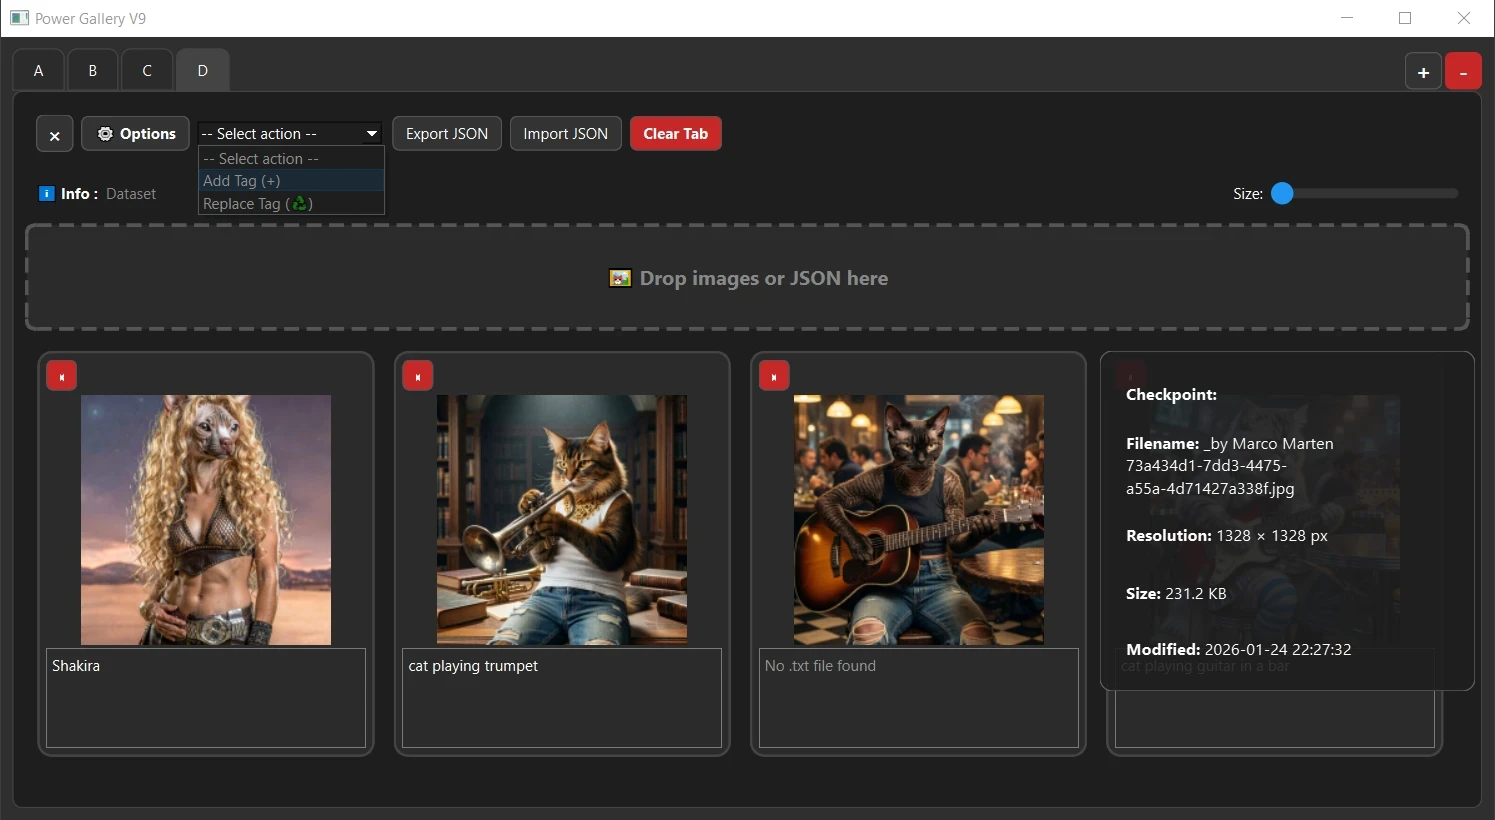
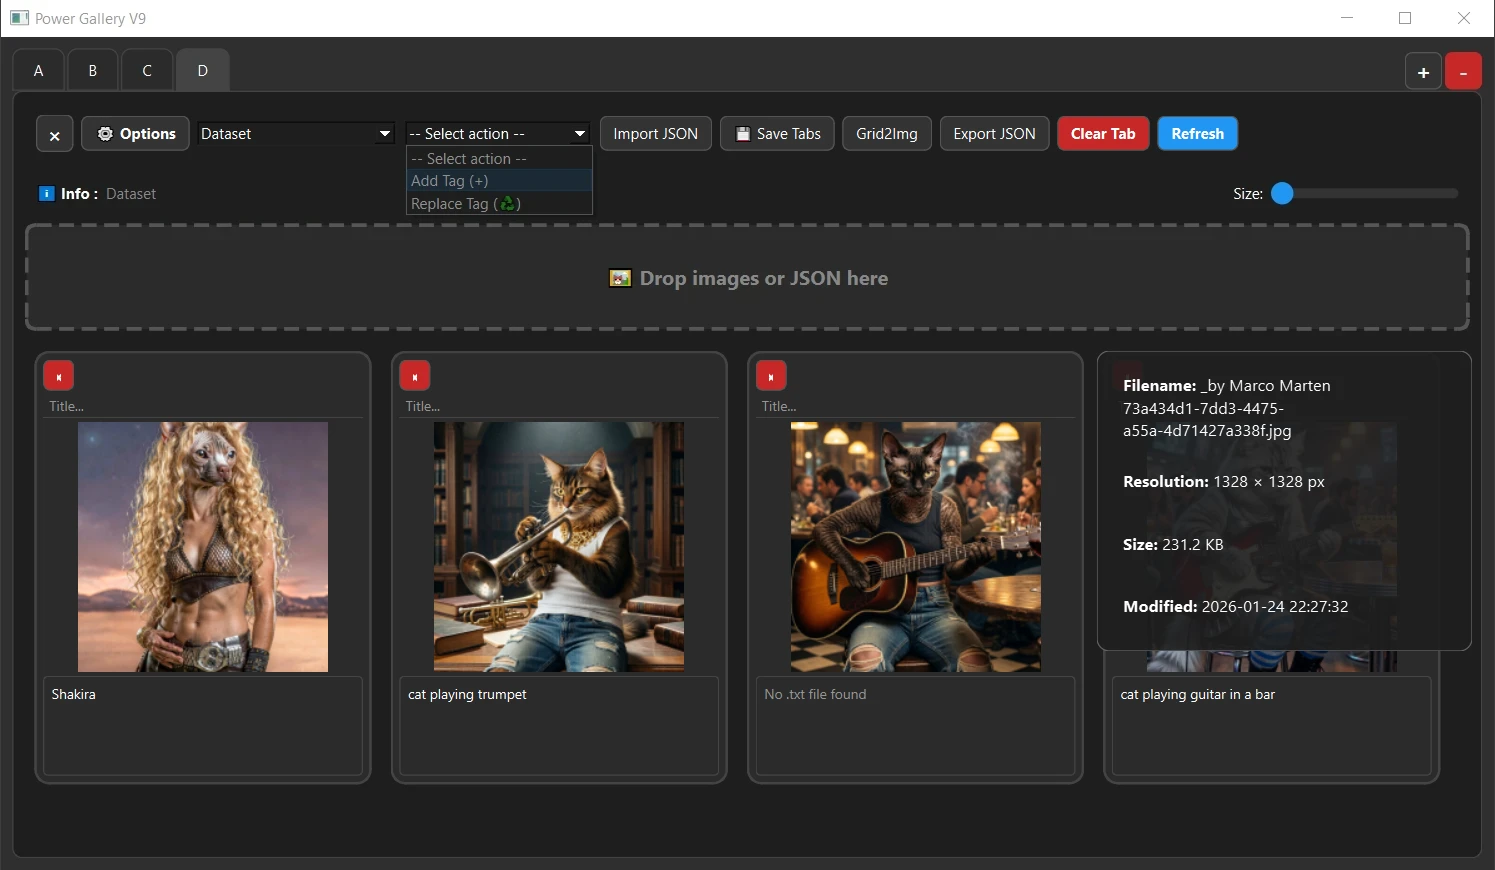
update

diff --git a/power_gallery.py b/power_gallery.py
@@ -306,6 +306,26 @@ def format_metadata_for_display(card):
 
 
 
+# ── Grid2Img settings ─────────────────────────────────────────────────────────
+
+_GRID2IMG_SETTINGS_FILE = Path(__file__).parent / 'config' / 'grid2img_settings.json'
+
+def _load_grid2img_settings():
+    try:
+        if _GRID2IMG_SETTINGS_FILE.exists():
+            return json.loads(_GRID2IMG_SETTINGS_FILE.read_text(encoding='utf-8'))
+    except Exception:
+        pass
+    return {}
+
+def _save_grid2img_settings(data):
+    try:
+        _GRID2IMG_SETTINGS_FILE.write_text(
+            json.dumps(data, indent=2, ensure_ascii=False), encoding='utf-8')
+    except Exception as e:
+        print(f"[grid2img] Save error: {e}")
+
+
 class Grid2ImgDialog(QDialog):
     from config.options_style import apply_options_style
 
@@ -446,7 +466,35 @@ class Grid2ImgDialog(QDialog):
         btns.rejected.connect(self.reject)
         layout.addWidget(btns)
 
-    def get_options(self):
+        self._load_settings()
+
+    def _load_settings(self):
+        s = _load_grid2img_settings()
+        if not s:
+            return
+        self.bg_combo.setCurrentText(s.get('background', 'White'))
+        self.spacing_spin.setValue(s.get('spacing', 10))
+        self.padding_spin.setValue(s.get('padding', 20))
+        self.title_size_spin.setValue(s.get('title_size', 24))
+        self.text_size_spin.setValue(s.get('text_size', 14))
+        self.res_spin.setValue(s.get('res_max', 1024))
+        self.grid_count_spin.setValue(s.get('grid_count', 4))
+        self.grid_by_row.setChecked(s.get('grid_mode', 'column') == 'row')
+        self.grid_by_col.setChecked(s.get('grid_mode', 'column') == 'column')
+        self.fmt_png.setChecked(s.get('format', 'png') == 'png')
+        self.fmt_webp.setChecked(s.get('format', 'png') == 'webp')
+        for key in ['filename', 'title', 'description', 'prompt', 'negative_prompt',
+                    'model', 'cfg', 'sampler', 'steps', 'seed', 'lora', 'lora_strength']:
+            cb = getattr(self, f'field_{key}', None)
+            if cb:
+                cb.setChecked(key in s.get('fields', []))
+
+    def _save_settings(self):
+        opts = self.get_options(save=False)
+        opts['background'] = self.bg_combo.currentText()
+        _save_grid2img_settings(opts)
+
+    def get_options(self, save=True):
         bg_map = {
             "White": QColor("white"),
             "Black": QColor("black"),
@@ -470,7 +518,7 @@ class Grid2ImgDialog(QDialog):
         fmt = "webp" if self.fmt_webp.isChecked() else "png"
         grid_mode = "row" if self.grid_by_row.isChecked() else "column"
 
-        return {
+        result = {
             "title": self.title_edit.text().strip(),
             "background": bg_map[self.bg_combo.currentText()],
             "spacing": self.spacing_spin.value(),
@@ -483,6 +531,9 @@ class Grid2ImgDialog(QDialog):
             "grid_mode": grid_mode,
             "format": fmt,
         }
+        if save:
+            self._save_settings()
+        return result
 
 # ── Tab widget ────────────────────────────────────────────────────────────────
 
@@ -1956,7 +2007,7 @@ class GridTab(QWidget):
         } for card in self.cards]
 
         for card in self.cards[:]:
-            card.deleteLater()
+            card.setParent(None)
         self.cards.clear()
 
         module = self.get_active_module()
@@ -2096,7 +2147,15 @@ class MetadataOverlay(QWidget):
 
     def set_text(self, text):
         self._text = text
-        self.text_label.setText(text)
+        hint = f"\n\n{config.get_text('meta_display_hint')}"
+        if text:
+            hint_color = config.get_styles().COLORS.get('text2', '#888')
+            self.text_label.setText(
+                f'<span style="color:white;">{text.replace(chr(10), "<br>")}</span>'
+                f'<span style="color:{hint_color};">{hint.replace(chr(10), "<br>")}</span>'
+            )
+        else:
+            self.text_label.setText("no metadata")
 
     def toggle(self):
         self._visible = not self._visible
@@ -2374,12 +2433,12 @@ class FullscreenViewer(QWidget):
 
     def update_info_label(self):
         module = self.grid_tab.get_active_module()
-        ckpt = self.card.module_data.get('checkpoint_name', '') if module else ''
+        ckpt = self.card.module_data.get('display_title', '') if module else ''
         self.info_label.setText(
             f"{ckpt} - {os.path.basename(self.card.image_path)}"
             if ckpt else os.path.basename(self.card.image_path))
         if self.comparison_card:
-            ckpt2 = self.comparison_card.module_data.get('checkpoint_name', '') if module else ''
+            ckpt2 = self.comparison_card.module_data.get('display_title', '') if module else ''
             self.info_label2.setText(
                 f"{ckpt2} - {os.path.basename(self.comparison_card.image_path)}"
                 if ckpt2 else os.path.basename(self.comparison_card.image_path))
@@ -2494,7 +2553,6 @@ class SplashScreen(QWidget):
         font.setWeight(QFont.Weight.Normal)
         painter.setFont(font)
         painter.setPen(QColor('#555555'))
-        # painter.drawText(self.rect().adjusted(0, 20, 0, 0), Qt.AlignmentFlag.AlignCenter, 'V 9')
         painter.drawText(self.rect().adjusted(0, 20, 0, 0), Qt.AlignmentFlag.AlignCenter, f'V {config.get_version()}')
 
         n_dots = 5
@@ -2666,7 +2724,7 @@ class MainWindow(QMainWindow):
     # ── UI ────────────────────────────────────────────────────────────────────
 
     def refresh_ui_texts(self, lang_changed=False):
-        self.setWindowTitle(config.get_text('window_title'))
+        self.setWindowTitle(f"Power Gallery {config.get_version()}")
         for i in range(self.tabs.count()):
             tab = self.tabs.widget(i)
             if hasattr(tab, 'refresh_ui_texts'):

diff --git a/config/lang/esp.py b/config/lang/esp.py
@@ -32,8 +32,9 @@ LANG = {
     # Modules tab
     'options_module_none': 'Sin módulo',
     # Module dropdown
-    'dropdown_select_action': '-- Seleccionar acción --',
+    'dropdown_select_action': '-- Select action --',
     'dropdown_no_module': '< Sin módulo >',
+    'dropdown_no_action': '< Sin acción >',
     # Messages / log
     'msg_loaded': 'Cargado',
     'msg_no_images': 'No hay imágenes para exportar',
@@ -59,8 +60,9 @@ LANG = {
     'file_filter_images': 'Imágenes (*.png *.jpg *.jpeg *.webp)',
     'file_filter_images_json': 'Imágenes y JSON (*.png *.jpg *.jpeg *.webp *.json);;Imágenes (*.png *.jpg *.jpeg *.webp);;JSON (*.json);;Todos los archivos (*.*)',
     # Fullscreen viewer
-    'fullscreen_compare': 'Comparar con:',
-    'fullscreen_tab_current': '{name} (actual)',
+    'fullscreen_compare': 'Compare with:',
+    'fullscreen_tab_current': '{name} (current)',
+    'meta_display_hint': '— Ctrl+desplazamiento para cambiar el tamaño del texto —',
     # Style editor
     'style_available_styles': 'Estilos disponibles',
     'style_actions': 'Acciones',
@@ -123,6 +125,8 @@ LANG = {
     'style_tab_module': 'Módulo',
     'style_module_no_style': 'Este módulo no tiene estilos personalizados',
     # Metadata
-    'options_read_metadata': 'Leer metadatos de imagen (PNG/WebP/JPG)',
-    'hint_read_metadata': 'Lee parámetros de generación de archivos PNG, WebP y JPG (prompt, modelo, CFG, seed…). Haz clic en la imagen en pantalla completa para mostrar/ocultar.',
+    'options_read_metadata': 'Read image metadata (PNG/WebP/JPG)',
+    'hint_read_metadata': 'Reads generation parameters from PNG, WebP and JPG files (prompt, model, CFG, seed…). Click on image in fullscreen mode to toggle overlay.',
+    'options_metadata_extra': 'Extra fields',
+    'hint_metadata_extra': 'Show additional metadata fields (ExifTool pass-through data).',
 }

diff --git a/config/lang/arab.py b/config/lang/arab.py
@@ -32,8 +32,9 @@ LANG = {
     # Modules tab
     'options_module_none': 'لا توجد وحدة',
     # Module dropdown
-    'dropdown_select_action': '-- اختر إجراءً --',
-    'dropdown_no_module': '< لا توجد وحدة >',
+    'dropdown_select_action': '-- Select action --',
+    'dropdown_no_module': '< ا توجد وحدة >',
+    'dropdown_no_action': '< لا إجراء >',
     # Messages / log
     'msg_loaded': 'تم التحميل',
     'msg_no_images': 'لا توجد صور للتصدير',
@@ -59,8 +60,9 @@ LANG = {
     'file_filter_images': 'صور (*.png *.jpg *.jpeg *.webp)',
     'file_filter_images_json': 'صور و JSON (*.png *.jpg *.jpeg *.webp *.json);;صور (*.png *.jpg *.jpeg *.webp);;JSON (*.json);;كل الملفات (*.*)',
     # Fullscreen viewer
-    'fullscreen_compare': 'مقارنة مع:',
-    'fullscreen_tab_current': '{name} (الحالي)',
+    'fullscreen_compare': 'Compare with:',
+    'fullscreen_tab_current': '{name} (current)',
+    'meta_display_hint': '— Ctrl+تمرير لتغيير حجم النص —',
     # Style editor
     'style_available_styles': 'الأنماط المتاحة',
     'style_actions': 'إجراءات',
@@ -125,4 +127,6 @@ LANG = {
     # Metadata
     'options_read_metadata': 'قراءة بيانات الصورة الوصفية (PNG/WebP/JPG)',
     'hint_read_metadata': 'يقرأ معاملات التوليد من ملفات PNG وWebP وJPG (المطالبة، النموذج، CFG، البذرة…). انقر على الصورة في وضع ملء الشاشة لتبديل طبقة العرض.',
+    'options_metadata_extra': 'Extra fields',
+    'hint_metadata_extra': 'Show additional metadata fields (ExifTool pass-through data).',
 }

diff --git a/config/lang/cn.py b/config/lang/cn.py
@@ -32,8 +32,9 @@ LANG = {
     # Modules tab
     'options_module_none': '无模块',
     # Module dropdown
-    'dropdown_select_action': '-- 选择操作 --',
-    'dropdown_no_module': '< 无模块 >',
+    'dropdown_select_action': '-- Select action --',
+    'dropdown_no_module': '< No module >',
+    'dropdown_no_action': '< No action >',
     # Messages / log
     'msg_loaded': '已加载',
     'msg_no_images': '没有可导出的图片',
@@ -59,8 +60,9 @@ LANG = {
     'file_filter_images': '图片 (*.png *.jpg *.jpeg *.webp)',
     'file_filter_images_json': '图片和 JSON (*.png *.jpg *.jpeg *.webp *.json);;图片 (*.png *.jpg *.jpeg *.webp);;JSON (*.json);;所有文件 (*.*)',
     # Fullscreen viewer
-    'fullscreen_compare': '与以下对比:',
-    'fullscreen_tab_current': '{name} (当前)',
+    'fullscreen_compare': 'Compare with:',
+    'fullscreen_tab_current': '{name} (current)',
+    'meta_display_hint': '— Ctrl+滚轮 调整文字大小 —',
     # Style editor
     'style_available_styles': '可用样式',
     'style_actions': '操作',
@@ -125,4 +127,6 @@ LANG = {
     # Metadata
     'options_read_metadata': '读取图片元数据（PNG/WebP/JPG）',
     'hint_read_metadata': '从 PNG、WebP 和 JPG 文件中读取生成参数（提示词、模型、CFG、种子等）。在全屏模式下点击图片可切换叠加层。',
+    'options_metadata_extra': 'Extra fields',
+    'hint_metadata_extra': 'Show additional metadata fields (ExifTool pass-through data).',
 }

diff --git a/config/lang/de.py b/config/lang/de.py
@@ -32,8 +32,9 @@ LANG = {
     # Modules tab
     'options_module_none': 'Kein Modul',
     # Module dropdown
-    'dropdown_select_action': '-- Aktion auswählen --',
+    'dropdown_select_action': '-- Select action --',
     'dropdown_no_module': '< Kein Modul >',
+    'dropdown_no_action': '< Keine Aktion >',
     # Messages / log
     'msg_loaded': 'Geladen',
     'msg_no_images': 'Keine Bilder zum Exportieren',
@@ -59,8 +60,9 @@ LANG = {
     'file_filter_images': 'Bilder (*.png *.jpg *.jpeg *.webp)',
     'file_filter_images_json': 'Bilder und JSON (*.png *.jpg *.jpeg *.webp *.json);;Bilder (*.png *.jpg *.jpeg *.webp);;JSON (*.json);;Alle Dateien (*.*)',
     # Fullscreen viewer
-    'fullscreen_compare': 'Vergleichen mit:',
-    'fullscreen_tab_current': '{name} (aktuell)',
+    'fullscreen_compare': 'Compare with:',
+    'fullscreen_tab_current': '{name} (current)',
+    'meta_display_hint': '— Ctrl+Scrollen zum Ändern der Textgröße —',
     # Style editor
     'style_available_styles': 'Verfügbare Stile',
     'style_actions': 'Aktionen',
@@ -125,4 +127,6 @@ LANG = {
     # Metadata
     'options_read_metadata': 'Bild-Metadaten lesen (PNG/WebP/JPG)',
     'hint_read_metadata': 'Liest Generierungsparameter aus PNG-, WebP- und JPG-Dateien (Prompt, Modell, CFG, Seed…). Im Vollbild auf das Bild klicken zum Ein-/Ausblenden.',
+    'options_metadata_extra': 'Extra fields',
+    'hint_metadata_extra': 'Show additional metadata fields (ExifTool pass-through data).',
 }

diff --git a/config/lang/pt_BR.py b/config/lang/pt_BR.py
@@ -34,6 +34,7 @@ LANG = {
     # Module dropdown
     'dropdown_select_action': '-- Selecionar ação --',
     'dropdown_no_module': '< Nenhum módulo >',
+    'dropdown_no_action': '< Sem ação >',
     # Messages / log
     'msg_loaded': 'Carregado',
     'msg_no_images': 'Nenhuma imagem para exportar',
@@ -61,6 +62,7 @@ LANG = {
     # Fullscreen viewer
     'fullscreen_compare': 'Comparar com:',
     'fullscreen_tab_current': '{name} (atual)',
+    'meta_display_hint': '— Ctrl+scroll para redimensionar o texto —',
     # Style editor
     'style_available_styles': 'Estilos Disponíveis',
     'style_actions': 'Ações',
@@ -124,5 +126,7 @@ LANG = {
     'style_module_no_style': 'Este módulo não possui estilos personalizados',
     # Metadata
     'options_read_metadata': 'Ler metadados de imagem (PNG/WebP/JPG)',
-    'hint_read_metadata': 'Lê parâmetros de geração de arquivos PNG, WebP e JPG (prompt, modelo, CFG, seed…). Clique na imagem em tela cheia para alternar a sobreposição.',
+    'hint_read_metadata': 'Lê parâmetros de geração de arquivos PNG, WebP e JPG (prompt, modelo, CFG, seed…). Clique na imagem em tela cheia para alternar overlay.',
+    'options_metadata_extra': 'Extra fields',
+    'hint_metadata_extra': 'Show additional metadata fields (ExifTool pass-through data).',
 }

diff --git a/config/lang/jp.py b/config/lang/jp.py
@@ -34,6 +34,7 @@ LANG = {
     # Module dropdown
     'dropdown_select_action': '-- アクションを選択 --',
     'dropdown_no_module': '< モジュールなし >',
+    'dropdown_no_action': '< アクションなし >',
     # Messages / log
     'msg_loaded': '読み込み完了',
     'msg_no_images': 'エクスポートする画像がありません',
@@ -61,6 +62,7 @@ LANG = {
     # Fullscreen viewer
     'fullscreen_compare': '比較対象:',
     'fullscreen_tab_current': '{name} (現在)',
+    'meta_display_hint': '— Ctrl+スクロールでテキストサイズを変更 —',
     # Style editor
     'style_available_styles': '利用可能なスタイル',
     'style_actions': 'アクション',
@@ -125,4 +127,6 @@ LANG = {
     # Metadata
     'options_read_metadata': '画像メタデータを読む (PNG/WebP/JPG)',
     'hint_read_metadata': 'PNG、WebP、JPGファイルから生成パラメータを読み込みます（プロンプト、モデル、CFG、シード等）。全画面で画像をクリックするとオーバーレイを切り替えられます。',
+    'options_metadata_extra': 'Extra fields',
+    'hint_metadata_extra': 'Show additional metadata fields (ExifTool pass-through data).',
 }

diff --git a/config/lang/fr.py b/config/lang/fr.py
@@ -62,6 +62,7 @@ LANG = {
     # Fullscreen viewer
     'fullscreen_compare': 'Comparer avec :',
     'fullscreen_tab_current': '{name} (actif)',
+    'meta_display_hint': '— Ctrl+scroll pour redimensionner le texte —',
     # Style editor
     'style_available_styles': 'Styles disponibles',
     'style_actions': 'Actions',

diff --git a/config/lang/en.py b/config/lang/en.py
@@ -62,6 +62,7 @@ LANG = {
     # Fullscreen viewer
     'fullscreen_compare': 'Compare with:',
     'fullscreen_tab_current': '{name} (current)',
+    'meta_display_hint': '— Ctrl+scroll to resize text —',
     # Style editor
     'style_available_styles': 'Available Styles',
     'style_actions': 'Actions',

diff --git a/config/settings.py b/config/settings.py
@@ -11,7 +11,7 @@ import importlib
 import importlib.util
 from pathlib import Path
 
-_SETTINGS_FILE = Path(__file__).parent / 'settings.json'
+_SETTINGS_FILE = Path(__file__).parent / 'ui_settings.json'
 _LANG_DIR = Path(__file__).parent / 'lang'
 _MODULES_DIR = Path(__file__).parent.parent / 'modules'
 

diff --git a/README.md b/README.md
@@ -15,13 +15,15 @@ Power Gallery lets you load batches of images into a grid, compare them side by 
 **Key features:**
 
 - **Multi-tab grid view** — organize images across up to 26 labeled tabs (A–Z)
-- **Drag & drop** — load images or JSON session files directly into the app
+- **Drag & drop** — load images (or a whole folder) or JSON session files directly into the app
 - **Fullscreen comparison** — view any image full screen; drag a split handle to compare two images from different tabs side by side
+- **View Metadata** — Read PNG/WebP/JPG metadata (prompt, model, seed, CFG...)
 - **Modules** — switch between evaluation modes:
   - *Checkpoint Manager* — rate images against named criteria (beauty, errors, LoRAs, prompts…), score each criterion manually as positive, neutral, or negative
-  - *Dataset Manager* — view and edit the `.txt` caption file associated with each image; batch add or replace tags. Is not TXT is present, it will be created automatically as you fill up the text field, or deleted if you remove the text.
+  - *Dataset Manager* — view and edit the `.txt` caption file associated with each image; batch add or replace tags. If no TXT is present it will be created automatically as you fill up the text field, or deleted if you remove the text.
 - **Resizable grid** — use the slider or Ctrl+scroll to zoom cards in/out
 - **Session save/load** — export your grid to JSON and reload it later, including all ratings
+- **Grid2Img** — export the grid as an image (PNG/WebP) with layout options and customizable fields
 - **Style editor** — customize the app's color theme with a visual editor, duplicate or delete custom themes
 - **Multi-language** — UI available in English, French, German, Spanish but also Arabic, Chinese, Japanese and Brazilian Portuguese. Because why not ! haha
 
@@ -44,11 +46,12 @@ START.BAT
 ## Usage
 
 1. Launch the app
-2. Drag images (`.png`, `.jpg`, `.jpeg`, `.webp`) or a saved `.json` session onto the drop zone
+2. Drag & drop images (`.png`, `.jpg`, `.jpeg`, `.webp`) or a saved `.json` session onto the drop zone
 3. Drag & drop between cards to change their order (a “push”, not a swap).
-4. Click any image to open the fullscreen viewer; right-click for details
-5. Use **Options** to choose a module, language, and import behavior
-6. Use **Export** to save your grid as a JSON file for later
+4. Optional Title & Description for each image (see Options)
+5. Click any image to open the fullscreen viewer; right-click for details
+6. Use **Options** to choose a module, language, and import behavior
+7. Use **Export** to save your grid as a JSON file for later use
 
 ---
 
